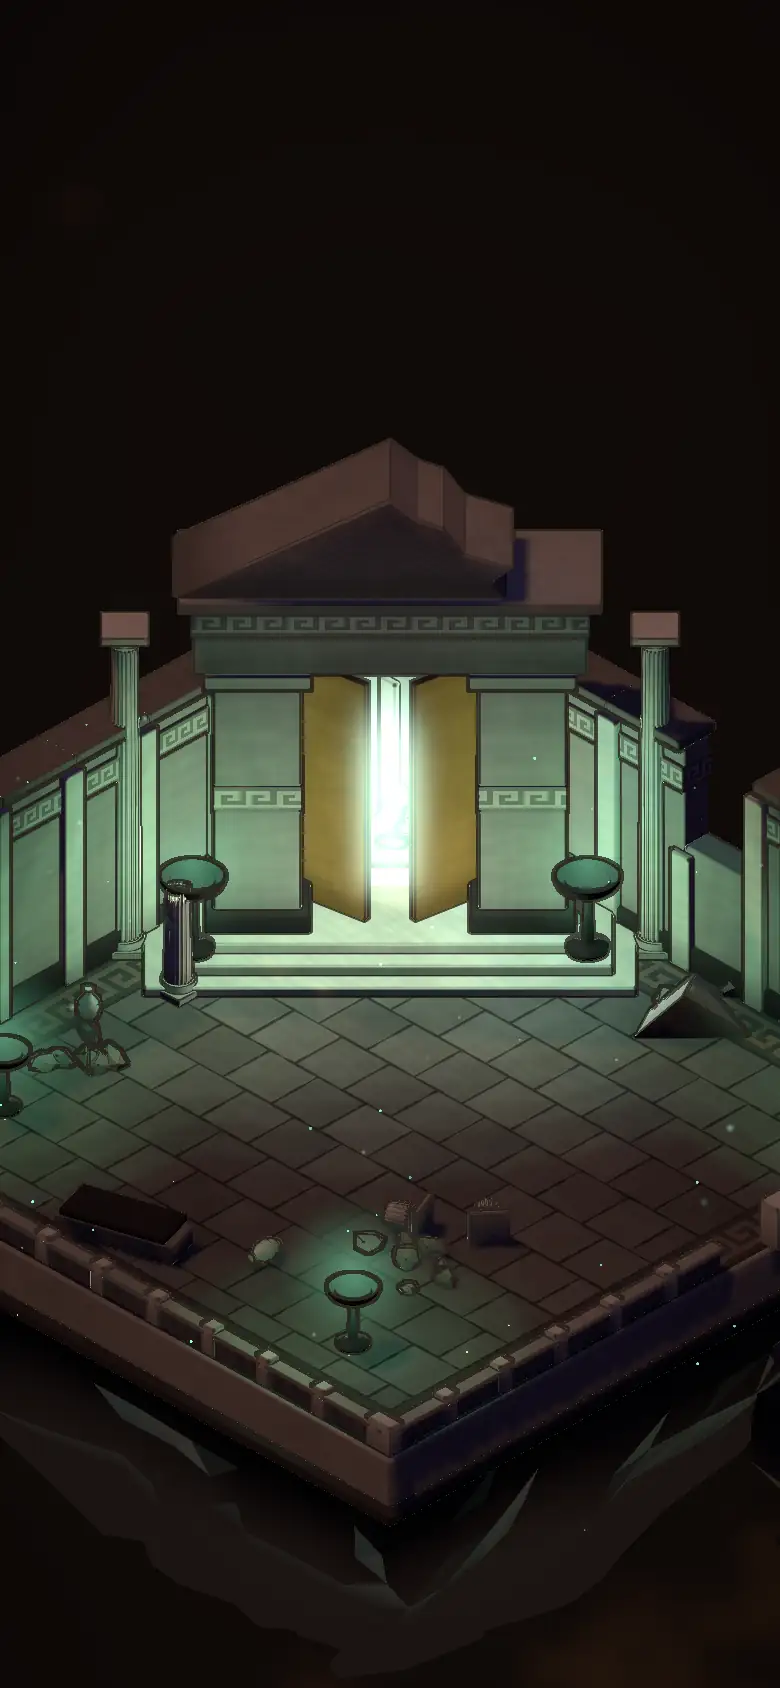
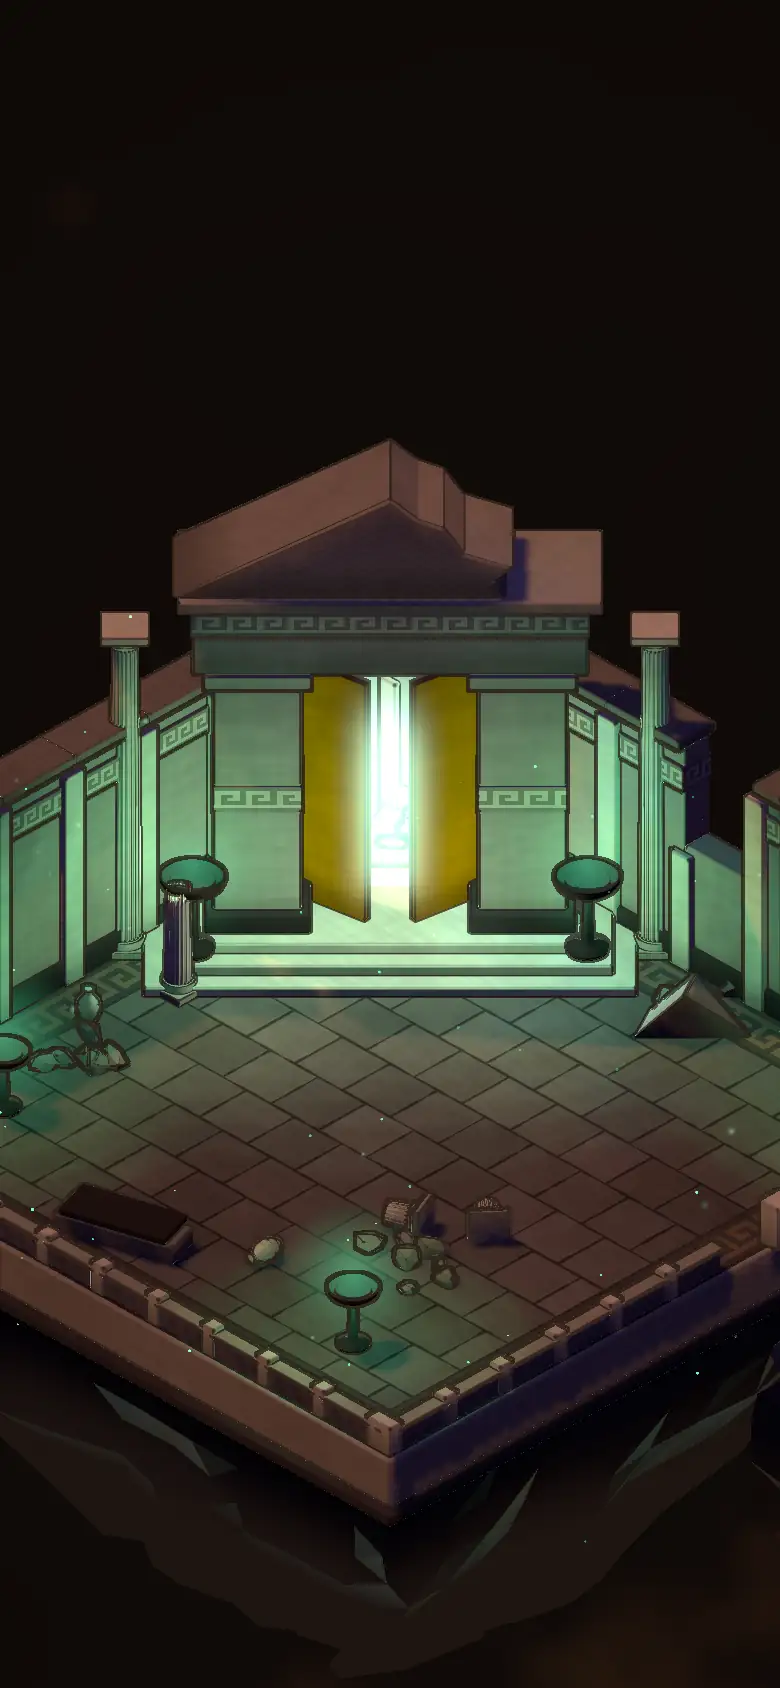
Judge round 2: default world reads clean at 1440 (no grain, lighter vignette, key and sky light lifted, stone and bronze saturated in the world grade) with the hero call in clear ink above the temple; posters re-rendered. 404 drops the footer's signpost (its scene has one) and its posters and flame 

diff --git a/src/components/world/kit/post.ts b/src/components/world/kit/post.ts
@@ -29,7 +29,7 @@ export function post(renderer: THREE.WebGLRenderer, S: Shared, b: Bag, o: { smal
   const bright = new THREE.ShaderMaterial({ uniforms: { t: { value: rt.texture }, th: { value: o.bloom ?? 0.8 } }, vertexShader: VS, fragmentShader: "uniform sampler2D t; uniform float th; varying vec2 vUv; void main() { vec3 c = texture2D(t, vUv).rgb; float l = max(c.r, max(c.g, c.b)); gl_FragColor = vec4(c * smoothstep(th, th * 1.8, l), 1.0); }" });
   const blur = new THREE.ShaderMaterial({ uniforms: { t: { value: null }, d: { value: new THREE.Vector2() } }, vertexShader: VS, fragmentShader: "uniform sampler2D t; uniform vec2 d; varying vec2 vUv; void main() { vec3 c = texture2D(t, vUv).rgb * 0.227; c += (texture2D(t, vUv + d * 1.385).rgb + texture2D(t, vUv - d * 1.385).rgb) * 0.316; c += (texture2D(t, vUv + d * 3.23).rgb + texture2D(t, vUv - d * 3.23).rgb) * 0.07; gl_FragColor = vec4(c, 1.0); }" });
   const fin = new THREE.ShaderMaterial({
-    uniforms: { tC: { value: rt.texture }, tD: { value: rt.depthTexture }, tB: { value: bA.texture }, uRes: { value: new THREE.Vector2() }, uPx: { value: 0.02 }, uTh: { value: 1 }, uTime: S.time, uOff: { value: new THREE.Vector2() }, uInk: { value: INK }, uGrain: { value: o.still || o.flat ? 0 : 0.018 }, uFlat: { value: o.flat ? 1 : 0 }, uFade: { value: 0 }, uPbr: { value: o.pbr ? 1 : 0 }, uExp: { value: o.pbr?.agx ?? 0 } },
+    uniforms: { tC: { value: rt.texture }, tD: { value: rt.depthTexture }, tB: { value: bA.texture }, uRes: { value: new THREE.Vector2() }, uPx: { value: 0.02 }, uTh: { value: 1 }, uTime: S.time, uOff: { value: new THREE.Vector2() }, uInk: { value: INK }, uGrain: { value: 0 }, uFlat: { value: o.flat ? 1 : 0 }, uFade: { value: 0 }, uPbr: { value: o.pbr ? 1 : 0 }, uExp: { value: o.pbr?.agx ?? 0 } },
     vertexShader: VS,
     fragmentShader: `
       uniform sampler2D tC, tD, tB; uniform vec2 uRes, uOff; uniform float uPx, uTh, uTime, uGrain, uFlat, uFade, uPbr, uExp; uniform vec3 uInk; varying vec2 vUv;
@@ -67,8 +67,9 @@ export function post(renderer: THREE.WebGLRenderer, S: Shared, b: Bag, o: { smal
         col += texture2D(tB, vUv).rgb * 0.9;
         if (uPbr > 0.5) col = sky || uExp == 0.0 ? col : agxPunchy(col * uExp);
         else if (!sky || uFlat < 0.5) col *= vec3(1.04, 1.0, 0.95);
+        if (uPbr < 0.5 && uFlat < 0.5 && !sky) col = mix(vec3(dot(col, vec3(0.2126, 0.7152, 0.0722))), col, 1.3);
         float v = smoothstep(1.25, 0.35, length((vUv - 0.5) * vec2(1.1, 1.3)));
-        col *= mix(mix(0.5, 1.0, v), 1.0, uFlat);
+        col *= mix(mix(0.78, 1.0, v), 1.0, uFlat);
         col = mix(col, uInk, uFade);
         col += (h21(vUv * uRes + fract(uTime) * 91.0) - 0.5) * uGrain;
         gl_FragColor = vec4(max(col, 0.0), 1.0);

diff --git a/src/components/world/scene.ts b/src/components/world/scene.ts
@@ -37,8 +37,8 @@ export function mount(host: HTMLElement, o: WorldOpts) {
   const door = world.door;
 
   // light: a cool sky and warm ground for the shadows, one warm key that casts, and the fires (in the shader)
-  scene.add(new THREE.HemisphereLight("#6660a6", "#140c0a", 1.15));
-  const key = new THREE.DirectionalLight("#ffcf9e", 1.1);
+  scene.add(new THREE.HemisphereLight("#6660a6", "#140c0a", 1.9));
+  const key = new THREE.DirectionalLight("#ffcf9e", 2.0);
   const LDIR = new THREE.Vector3(-0.5, 1, 0.12).normalize();
   key.castShadow = true;
   key.shadow.mapSize.set(o.small ? 1024 : 2048, o.small ? 1024 : 2048);
@@ -122,7 +122,7 @@ export function mount(host: HTMLElement, o: WorldOpts) {
 
   // camera: the five shots (gate, hall in, hall out, theatre, landing), eased between, with a pull back mid-move
   const shots: Shot[] = [
-    { t: new THREE.Vector3(0, COURT.y + 3, 0).addScaledVector(UP, 2), h: 52, w: 70, floor: COURT.y },
+    { t: new THREE.Vector3(0, COURT.y + 3, 0).addScaledVector(UP, 12), h: 56, w: 70, floor: COURT.y },
     hall.shots[0],
     hall.shots[1],
     { t: THEATRE.c.clone().add(new THREE.Vector3(-1, 1.5, -1)), h: 56, w: 74, floor: THEATRE.c.y },
@@ -274,7 +274,7 @@ export function mount(host: HTMLElement, o: WorldOpts) {
     const [W, H] = v.size();
     if (W / H < 0.8) {
       wantW = Math.min(wantW, 40) - 10 * (i === 0 ? 1 - f : 0);
-      want.addScaledVector(UP, 6.5 * (i === 0 ? 1 - f : 0));
+      want.addScaledVector(UP, -3.5 * (i === 0 ? 1 - f : 0));
     }
     const intro = Math.min(1, Math.max(0, (ign.value - 0.3) / 3.2));
     wantH -= (1 - Math.pow(1 - intro, 3)) * 3 * Math.max(0, 1 - p * 2);

diff --git a/src/styles/footer.css b/src/styles/footer.css
@@ -7,7 +7,7 @@
 .pl-stage { width: 100%; aspect-ratio: 1440 / 846; }
 .pl-head { position: absolute; left: 56%; top: 36%; z-index: 3; pointer-events: none; }
 .foot-h { margin: 0; font: 700 max(44px, calc(17 * var(--u)))/0.88 var(--f-disp); letter-spacing: -0.05em; color: var(--ivory); }
-.foot-hint { margin: 12px 0 0; font: 600 max(17px, calc(4.6 * var(--u)))/1.1 var(--f-bar); letter-spacing: -0.02em; color: #b9a184; }
+.pl-head .foot-hint { margin: 14px 0 0; font: 600 max(20px, calc(5.4 * var(--u)))/1.1 var(--f-bar); letter-spacing: -0.02em; color: #c9b498; }
 .pl-ui { position: absolute; inset: 0; z-index: 2; }
 .pl-a { position: absolute; left: calc(var(--dx) * 100%); top: calc(var(--dy) * 100%); width: 10.5%; height: 7%; translate: -50% -50%; }
 .pl-a.main { width: 16%; height: 9%; }

diff --git a/src/components/ds/Footer.tsx b/src/components/ds/Footer.tsx
@@ -9,11 +9,11 @@ import "@/styles/footer.css";
 const LINKS = SOCIALS.filter((s) => s.href.startsWith("https://") && s.label !== "linkedin");
 
 /** The page's last word on every page: the waymarker (Pillar), one sign per way out, then a quiet row of every link,
- *  with his GitHub year beside github. */
-export function Footer({ src }: { src: string }) {
+ *  with his GitHub year beside github. A page whose own scene already holds a signpost (the 404) leaves the Pillar out. */
+export function Footer({ src, pillar = true }: { src: string; pillar?: boolean }) {
   return (
     <footer className="foot">
-      <Pillar />
+      {pillar ? <Pillar /> : null}
       <div className="foot-row">
         <span className="foot-c">©2026 jawad jalal</span>
         <span className="foot-links">

diff --git a/src/app/not-found.tsx b/src/app/not-found.tsx
@@ -28,7 +28,7 @@ export default function NotFound() {
           </nav>
         </LostMoment>
       </main>
-      <Footer src="404" />
+      <Footer src="404" pillar={false} />
       <Dock />
     </div>
   );
